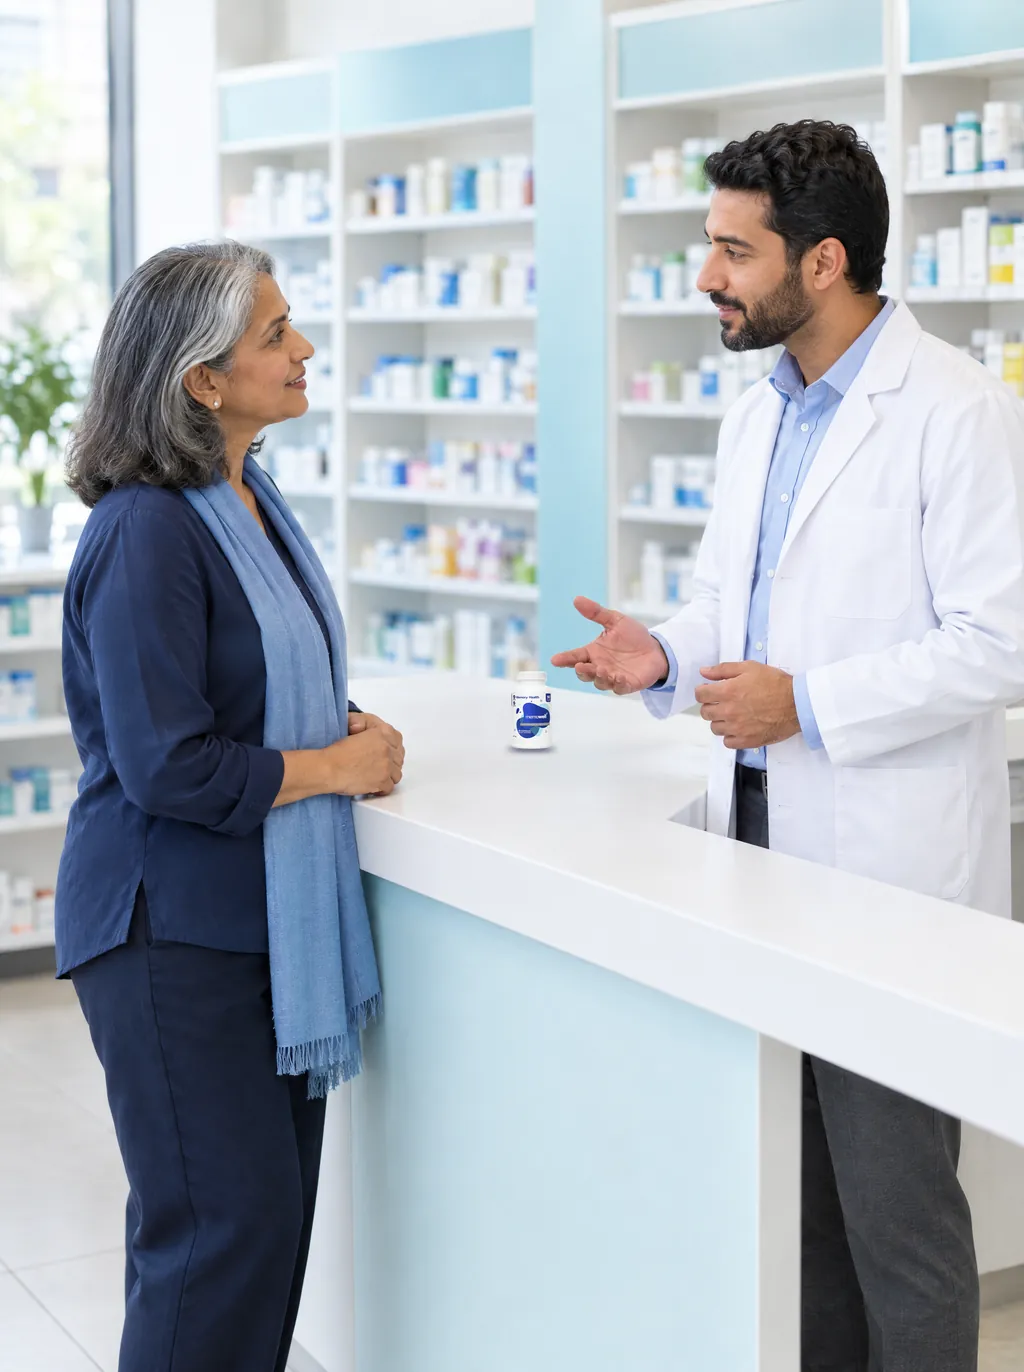
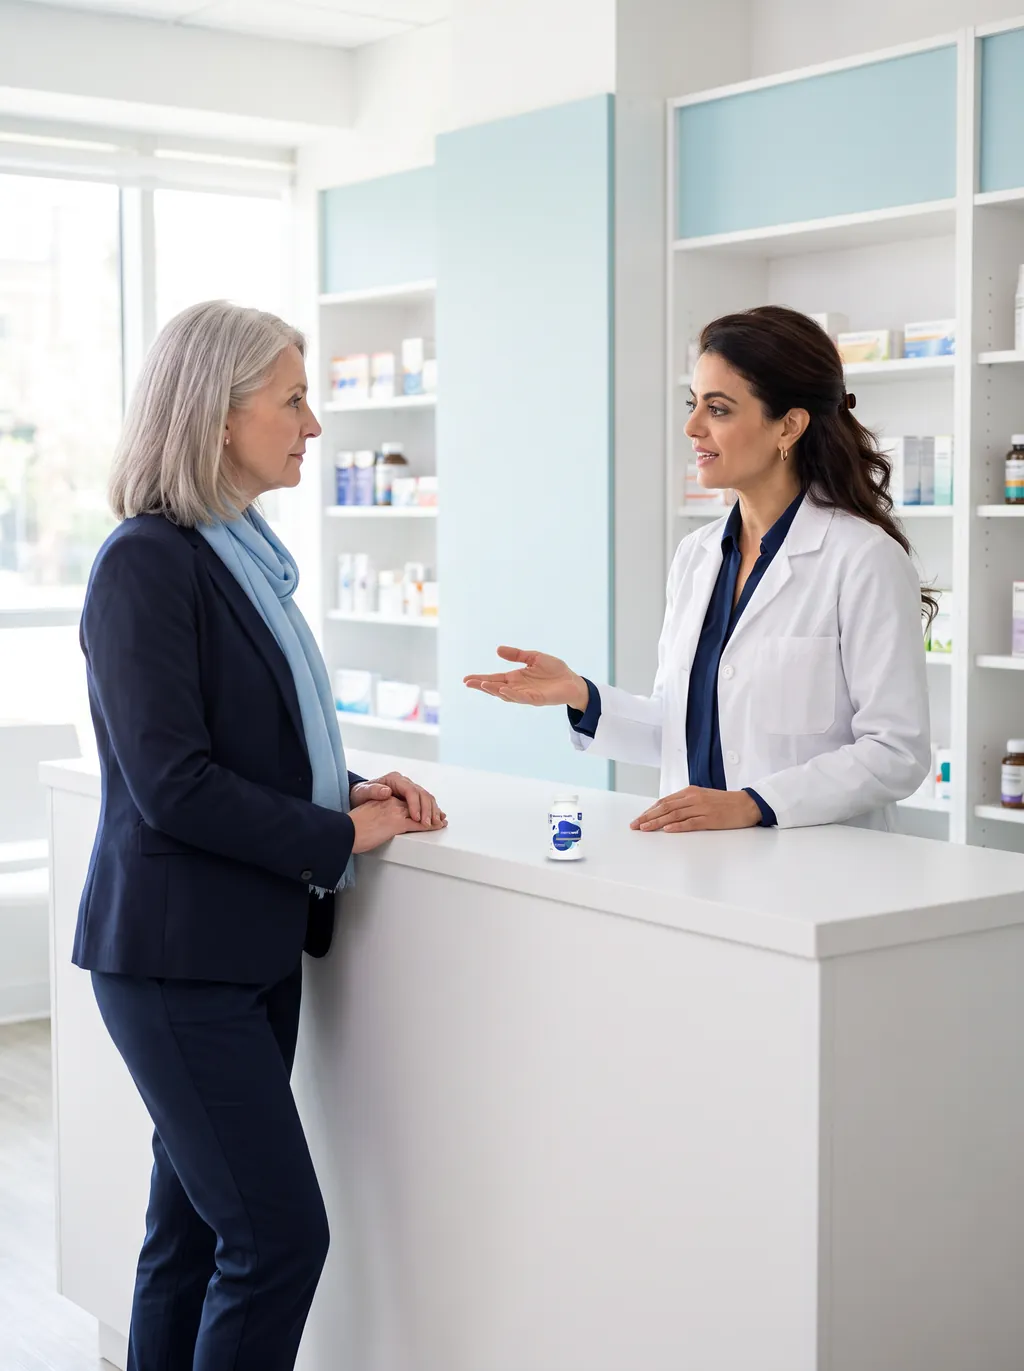
Make the pharmacists the doctor character; stop repeating the Why photo
Remake where-pharmacy and partners-counter with the dr element (official
bottle composited, not generated). The Who gallery gets its own picture
back instead of reusing the Why section's research photograph.

Claude-Session: https://claude.ai/code/session_01DM5k2etv622FeYMYVxnYG2

diff --git a/memowell/README.md b/memowell/README.md
@@ -164,10 +164,10 @@ These are interface or structural words, and none of them is a claim. They are a
 | `caregiver-walk` | Caregivers | `/memory-health`, page head — mother and daughter on a seaside promenade, the mother leads |
 | `researcher-lab` | Doctors & Specialists | Home, "why" section — the client's doctor character (Higgsfield element `dr`) talking through a hand-drawn result and a printed paper with a colleague at a daylight research bench: researchers looking at an open question (2026-10-27) |
 | `pro-reading` | Doctors & Specialists | Home, professional band — the doctor character (element `dr`) reading a printed results table in her consulting room, under the frosted panel (2026-10-27) |
-| `caregiver-planner` | Caregivers | Not in use since 2026-10-27 (was Home, "why") — father writes on a wall calendar, his son beside him |
+| `caregiver-planner` | Caregivers | Home, "Who it was studied in" gallery ("Brain fog and delirium"); no longer the "why" photo since 2026-10-27 — father writes on a wall calendar, his son beside him |
 | `wellness-lunch` | Wellness | `/memowell`, "How to take it" — terrace lunch; official bottle composited at ~6% of frame height |
-| `where-pharmacy` | Wellness | Home, "Where to find Memowell" — pharmacist conversation; official bottle composited on the counter |
-| `partners-counter` | Pharmacy / distribution | `/about/partners` — two pharmacists check a delivery; official bottle composited on the counter |
+| `where-pharmacy` | Wellness | Home, "Where to find Memowell" — pharmacist conversation, the pharmacist is the doctor character (element `dr`); official bottle composited on the counter (remade 2026-10-27) |
+| `partners-counter` | Pharmacy / distribution | `/about/partners` — two pharmacists check a delivery, one is the doctor character (element `dr`); official bottle composited on the counter (remade 2026-10-27) |
 | `capsule-resin` | All | `/memowell`, "What is in it" — one cream capsule beside frankincense resin tears |
 
 v6 (2026-10-13): all eight regenerated through the **Kondor Brain plugin** (approval packet `docs/kondor-brain/approval-packet-v1.md`, site review findings): broader casting for the UAE/GCC market, no white trousers, fewer table scenes, restrained blue, bottle composited at ≤6% of frame height with the official `memowell-front.png` (scene generated without it). GPT Image 2.5 (high, 2k) on Higgsfield. The plugin's capsule reference photo could not be passed to the generator (upload blocked in this environment), so the capsule is matched by description only.

diff --git a/memowell/docs/design-brief.md b/memowell/docs/design-brief.md
@@ -443,5 +443,6 @@ The v1 "facts in hand" travelling note is retired. The summary returns as a glas
 ## Every doctor is the doctor character (2026-10-27)
 
 - **Client instruction:** wherever the site shows a doctor, it is the client's doctor character (Higgsfield element `dr`).
-- **Remade with the same compositions and briefs:** `patient-routine` (`/who-its-for` head and the homepage audience gallery: follow-up appointment, he explains his own planner while she listens) and `hcp-evidence` (`/science/professionals` band: she and a younger colleague review a printed paper in a Dubai clinic office). Pharmacist photos (`where-pharmacy`, `partners-counter`) show pharmacists, not doctors, and are unchanged.
+- **Remade with the same compositions and briefs:** `patient-routine` (`/who-its-for` head and the homepage audience gallery: follow-up appointment, he explains his own planner while she listens) and `hcp-evidence` (`/science/professionals` band: she and a younger colleague review a printed paper in a Dubai clinic office). Follow-up (client): the pharmacists are the same character too — `where-pharmacy` (Home, Where to find) and `partners-counter` (`/about/partners`) remade with the same compositions; scenes generated without the bottle, the official cutout composited at about 5% of frame height on the counter (`BOTTLE=990,1505,115` and `900,1850,120` on the 1792×2400 sources).
+- **Fix:** the homepage "Who it was studied in" gallery took its third photo from the Why section, so the new research photograph appeared twice. The gallery now has its own picture again (`caregiver-planner`, "Brain fog and delirium"); no photograph repeats on the homepage.
 - **Verification:** both builds and content checks passed; inspected both pages at 1440 and 390.
